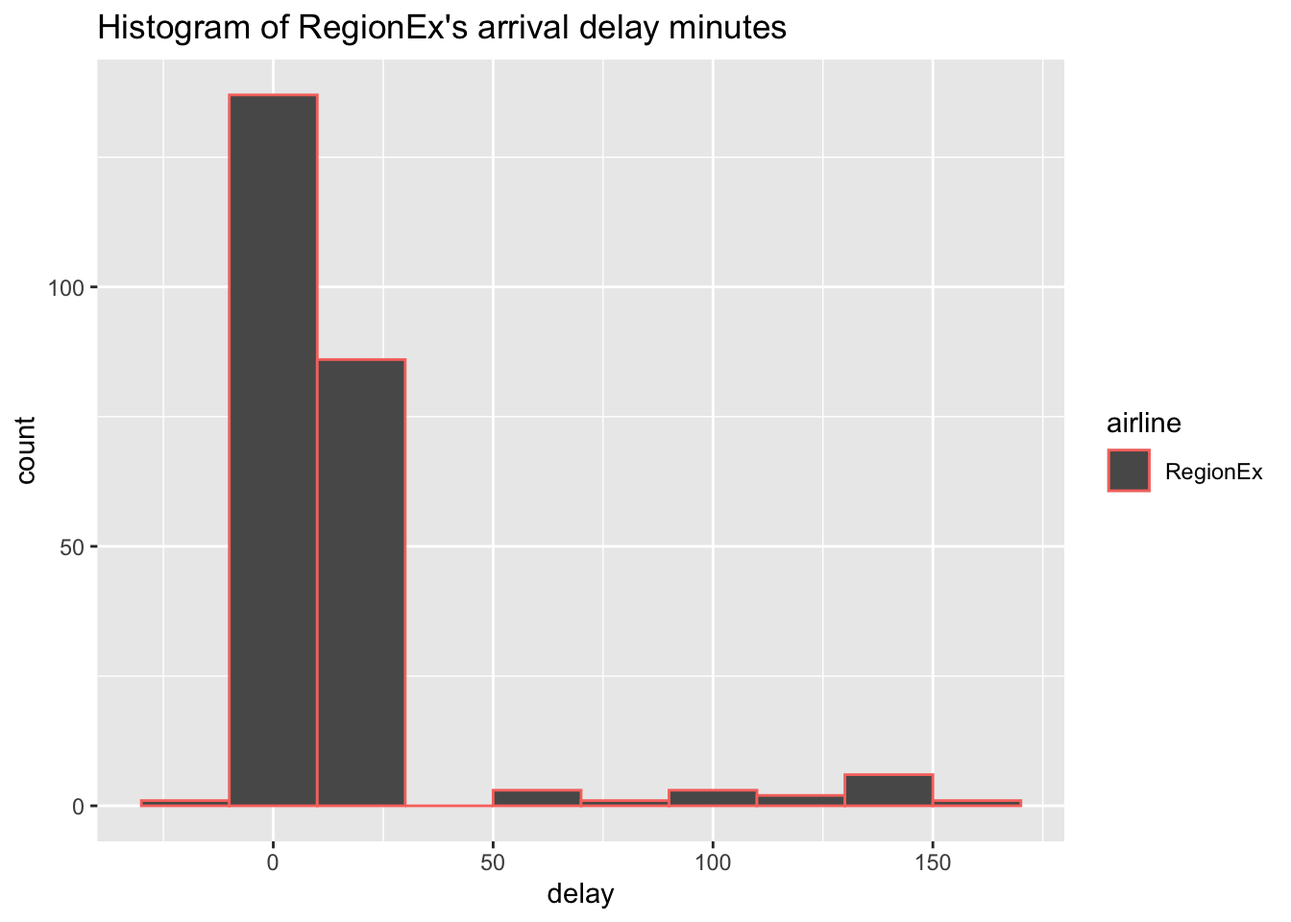
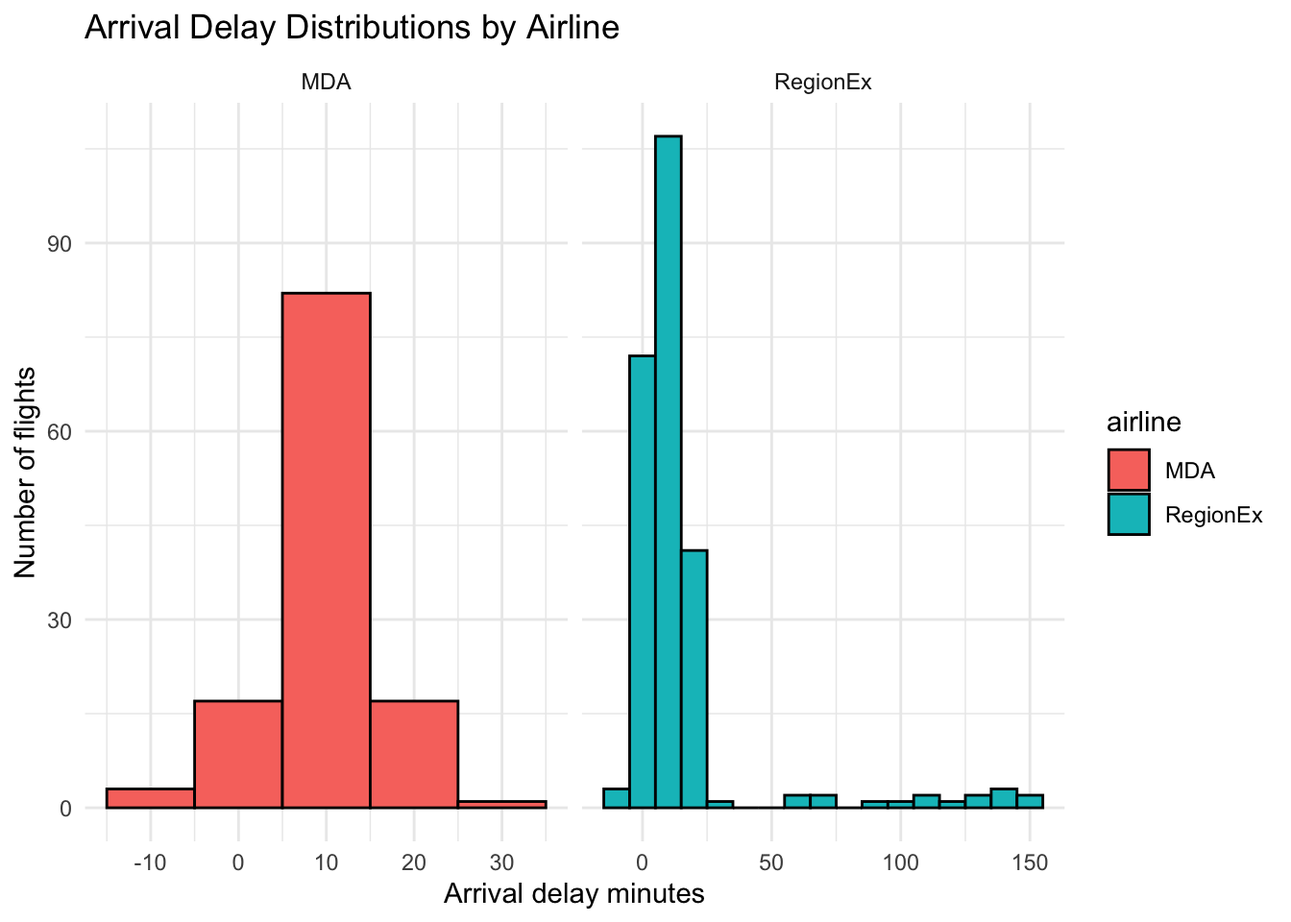
finished flight_delay_case

diff --git a/IS_6489_Stats/week1/flight_delay_template.html b/IS_6489_Stats/week1/flight_delay_template.html
@@ -103,7 +103,11 @@ pre > code.sourceCode > span > a:first-child::before { text-decoration: underlin
   <li><a href="#q3" id="toc-q3" class="nav-link" data-scroll-target="#q3">Q3</a></li>
   <li><a href="#create-a-summary-table-of-percent-delayed-by-airline." id="toc-create-a-summary-table-of-percent-delayed-by-airline." class="nav-link" data-scroll-target="#create-a-summary-table-of-percent-delayed-by-airline.">Create a summary table of percent delayed by airline.</a>
   <ul class="collapse">
-  <li><a href="#q4" id="toc-q4" class="nav-link" data-scroll-target="#q4">Q4</a></li>
+  <li><a href="#notice-that-these-tablespercent-delayed-by-airline-vs.-percent-delayed-by-airline-and-route-contain-conflicting-information.-how-should-you-answer-the-question-of-whether-regionex-has-a-higher-percentage-of-delayed-flights-is-the-the-coo-correct-and-if-not-why-not" id="toc-notice-that-these-tablespercent-delayed-by-airline-vs.-percent-delayed-by-airline-and-route-contain-conflicting-information.-how-should-you-answer-the-question-of-whether-regionex-has-a-higher-percentage-of-delayed-flights-is-the-the-coo-correct-and-if-not-why-not" class="nav-link" data-scroll-target="#notice-that-these-tablespercent-delayed-by-airline-vs.-percent-delayed-by-airline-and-route-contain-conflicting-information.-how-should-you-answer-the-question-of-whether-regionex-has-a-higher-percentage-of-delayed-flights-is-the-the-coo-correct-and-if-not-why-not">Notice that these tables—percent delayed by airline vs.&nbsp;percent delayed by airline and route— contain conflicting information. How should you answer the question of whether RegionEx has a higher percentage of delayed flights? Is the the COO correct? And, if not, why not?</a></li>
+  <li><a href="#q4" id="toc-q4" class="nav-link" data-scroll-target="#q4">Q4</a>
+  <ul class="collapse">
+  <li><a href="#compare-the-scheduled-flight-durations-for-the-two-airlines-on-each-of-their-four-routes.-also-compare-the-actual-flight-durations-for-the-two-airlines.-what-do-you-notice-if-the-two-airlines-had-the-same-scheduled-duration-what-impact-would-this-have-on-their-delay-records" id="toc-compare-the-scheduled-flight-durations-for-the-two-airlines-on-each-of-their-four-routes.-also-compare-the-actual-flight-durations-for-the-two-airlines.-what-do-you-notice-if-the-two-airlines-had-the-same-scheduled-duration-what-impact-would-this-have-on-their-delay-records" class="nav-link" data-scroll-target="#compare-the-scheduled-flight-durations-for-the-two-airlines-on-each-of-their-four-routes.-also-compare-the-actual-flight-durations-for-the-two-airlines.-what-do-you-notice-if-the-two-airlines-had-the-same-scheduled-duration-what-impact-would-this-have-on-their-delay-records">Compare the scheduled flight durations for the two airlines on each of their four routes. Also compare the actual flight durations for the two airlines. What do you notice? If the two airlines had the same scheduled duration, what impact would this have on their delay records?</a></li>
+  </ul></li>
   <li><a href="#q5" id="toc-q5" class="nav-link" data-scroll-target="#q5">Q5</a></li>
   </ul></li>
   </ul>
@@ -198,10 +202,20 @@ pre > code.sourceCode > span > a:first-child::before { text-decoration: underlin
 <h3 class="anchored" data-anchor-id="inspect-the-distribution-of-regionexs-arrival-delays-by-constructing-a-histogram-of-the-number-of-arrival-delay-minutes-of-regionexs-flights.-do-the-same-for-mdas-flights.-hint-use-facet_wrap.">Inspect the distribution of RegionEx’s arrival delays by constructing a histogram of the number of arrival delay minutes of RegionEx’s flights. Do the same for MDA’s flights. Hint: use facet_wrap().</h3>
 <div class="cell">
 <div class="code-copy-outer-scaffold"><div class="sourceCode cell-code" id="cb6"><pre class="sourceCode r code-with-copy"><code class="sourceCode r"><span id="cb6-1"><a href="#cb6-1" aria-hidden="true" tabindex="-1"></a>flightdf <span class="sc">%&gt;%</span></span>
-<span id="cb6-2"><a href="#cb6-2" aria-hidden="true" tabindex="-1"></a>  <span class="fu">filter</span>(airline <span class="sc">==</span> <span class="st">"RegionEx"</span>) <span class="sc">%&gt;%</span></span>
-<span id="cb6-3"><a href="#cb6-3" aria-hidden="true" tabindex="-1"></a>  <span class="fu">ggplot</span>() <span class="sc">+</span></span>
-<span id="cb6-4"><a href="#cb6-4" aria-hidden="true" tabindex="-1"></a>  <span class="fu">geom_histogram</span>(<span class="fu">aes</span>(<span class="at">x =</span> delay, <span class="at">color =</span> airline), <span class="at">binwidth =</span> <span class="dv">20</span>) <span class="sc">+</span></span>
-<span id="cb6-5"><a href="#cb6-5" aria-hidden="true" tabindex="-1"></a>  <span class="fu">ggtitle</span>(<span class="st">"Histogram of RegionEx's arrival delay minutes"</span>)</span></code></pre></div><button title="Copy to Clipboard" class="code-copy-button"><i class="bi"></i></button></div>
+<span id="cb6-2"><a href="#cb6-2" aria-hidden="true" tabindex="-1"></a>  <span class="fu">filter</span>(airline <span class="sc">%in%</span> <span class="fu">c</span>(<span class="st">"RegionEx"</span>, <span class="st">"MDA"</span>)) <span class="sc">%&gt;%</span></span>
+<span id="cb6-3"><a href="#cb6-3" aria-hidden="true" tabindex="-1"></a>  <span class="fu">ggplot</span>(<span class="fu">aes</span>(<span class="at">x =</span> delay)) <span class="sc">+</span></span>
+<span id="cb6-4"><a href="#cb6-4" aria-hidden="true" tabindex="-1"></a>  <span class="fu">geom_histogram</span>(</span>
+<span id="cb6-5"><a href="#cb6-5" aria-hidden="true" tabindex="-1"></a>    <span class="fu">aes</span>(<span class="at">fill =</span> airline),</span>
+<span id="cb6-6"><a href="#cb6-6" aria-hidden="true" tabindex="-1"></a>    <span class="at">binwidth =</span> <span class="dv">10</span>,</span>
+<span id="cb6-7"><a href="#cb6-7" aria-hidden="true" tabindex="-1"></a>    <span class="at">color =</span> <span class="st">"black"</span></span>
+<span id="cb6-8"><a href="#cb6-8" aria-hidden="true" tabindex="-1"></a>  ) <span class="sc">+</span></span>
+<span id="cb6-9"><a href="#cb6-9" aria-hidden="true" tabindex="-1"></a>  <span class="fu">facet_wrap</span>(<span class="sc">~</span>airline, <span class="at">scales =</span> <span class="st">"free_x"</span>) <span class="sc">+</span></span>
+<span id="cb6-10"><a href="#cb6-10" aria-hidden="true" tabindex="-1"></a>  <span class="fu">labs</span>(</span>
+<span id="cb6-11"><a href="#cb6-11" aria-hidden="true" tabindex="-1"></a>    <span class="at">title =</span> <span class="st">"Arrival Delay Distributions by Airline"</span>,</span>
+<span id="cb6-12"><a href="#cb6-12" aria-hidden="true" tabindex="-1"></a>    <span class="at">x =</span> <span class="st">"Arrival delay minutes"</span>,</span>
+<span id="cb6-13"><a href="#cb6-13" aria-hidden="true" tabindex="-1"></a>    <span class="at">y =</span> <span class="st">"Number of flights"</span></span>
+<span id="cb6-14"><a href="#cb6-14" aria-hidden="true" tabindex="-1"></a>  ) <span class="sc">+</span></span>
+<span id="cb6-15"><a href="#cb6-15" aria-hidden="true" tabindex="-1"></a>  <span class="fu">theme_minimal</span>()</span></code></pre></div><button title="Copy to Clipboard" class="code-copy-button"><i class="bi"></i></button></div>
 <div class="cell-output-display">
 <div>
 <figure class="figure">
@@ -209,22 +223,11 @@ pre > code.sourceCode > span > a:first-child::before { text-decoration: underlin
 </figure>
 </div>
 </div>
-<div class="code-copy-outer-scaffold"><div class="sourceCode cell-code" id="cb7"><pre class="sourceCode r code-with-copy"><code class="sourceCode r"><span id="cb7-1"><a href="#cb7-1" aria-hidden="true" tabindex="-1"></a>flightdf <span class="sc">%&gt;%</span></span>
-<span id="cb7-2"><a href="#cb7-2" aria-hidden="true" tabindex="-1"></a>  <span class="fu">filter</span>(airline <span class="sc">==</span> <span class="st">"MDA"</span>) <span class="sc">%&gt;%</span></span>
-<span id="cb7-3"><a href="#cb7-3" aria-hidden="true" tabindex="-1"></a>  <span class="fu">ggplot</span>() <span class="sc">+</span></span>
-<span id="cb7-4"><a href="#cb7-4" aria-hidden="true" tabindex="-1"></a>  <span class="fu">geom_histogram</span>(<span class="fu">aes</span>(<span class="at">x =</span> delay, <span class="at">color =</span> airline), <span class="at">binwidth =</span> <span class="dv">20</span>) <span class="sc">+</span></span>
-<span id="cb7-5"><a href="#cb7-5" aria-hidden="true" tabindex="-1"></a>  <span class="fu">ggtitle</span>(<span class="st">"Histogram of MDA's arrival delay minutes"</span>)</span></code></pre></div><button title="Copy to Clipboard" class="code-copy-button"><i class="bi"></i></button></div>
-<div class="cell-output-display">
-<div>
-<figure class="figure">
-<p><img src="flight_delay_template_files/figure-html/unnamed-chunk-1-2.png" class="img-fluid figure-img" width="672"></p>
-</figure>
-</div>
-</div>
 </div>
 </section>
 <section id="how-do-these-two-distributions-compare" class="level3">
 <h3 class="anchored" data-anchor-id="how-do-these-two-distributions-compare">How do these two distributions compare?</h3>
+<p>From the graphs when combining them and using a bin of 10 it looks that RegionEx is very heavily skewed right and that MDA is a normal distribution. It verifies that RegionEx has a few very high delays exceeding 130 minutes where as MDA doesn’t have any delays longer than 20 minutes.</p>
 </section>
 </section>
 <section id="q3" class="level2">
@@ -234,20 +237,149 @@ pre > code.sourceCode > span > a:first-child::before { text-decoration: underlin
 </section>
 <section id="create-a-summary-table-of-percent-delayed-by-airline." class="level1">
 <h1>Create a summary table of percent delayed by airline.</h1>
-<!-- d %>% 
-  group_by(airline) %>% 
-  summarize(n = n(),
-            percent_delay = (mean(delay_indicator) * 100) %>% round(1))  -->
+<div class="cell">
+<div class="code-copy-outer-scaffold"><div class="sourceCode cell-code" id="cb7"><pre class="sourceCode r code-with-copy"><code class="sourceCode r"><span id="cb7-1"><a href="#cb7-1" aria-hidden="true" tabindex="-1"></a>flightdf <span class="sc">%&gt;%</span></span>
+<span id="cb7-2"><a href="#cb7-2" aria-hidden="true" tabindex="-1"></a>  <span class="fu">group_by</span>(airline) <span class="sc">%&gt;%</span></span>
+<span id="cb7-3"><a href="#cb7-3" aria-hidden="true" tabindex="-1"></a>  <span class="fu">summarize</span>(<span class="at">n =</span> <span class="fu">n</span>(), <span class="at">percent_delay =</span> (<span class="fu">mean</span>(delay_indicator) <span class="sc">*</span> <span class="dv">100</span>) <span class="sc">%&gt;%</span> <span class="fu">round</span>(<span class="dv">2</span>))</span></code></pre></div><button title="Copy to Clipboard" class="code-copy-button"><i class="bi"></i></button></div>
+<div class="cell-output cell-output-stdout">
+<pre><code># A tibble: 2 × 3
+  airline      n percent_delay
+  &lt;chr&gt;    &lt;int&gt;         &lt;dbl&gt;
+1 MDA        120         25.83
+2 RegionEx   240         26.25</code></pre>
+</div>
+</div>
 <p>Note that because delay_indicator is numeric (a binary 0/1 variable) calculating the mean of the vector returns the proportion of 1s, which, multiplied by 100, is equivalent to the percentage of delayed flights.</p>
 <p>Write your own code to create a table summarizing the percentage of delayed flights by airline and route.</p>
-<p>Notice that these tables—percent delayed by airline vs.&nbsp;percent delayed by airline and route— contain conflicting information. How should you answer the question of whether RegionEx has a higher percentage of delayed flights? Is the the COO correct? And, if not, why not?</p>
+<div class="cell">
+<div class="code-copy-outer-scaffold"><div class="sourceCode cell-code" id="cb9"><pre class="sourceCode r code-with-copy"><code class="sourceCode r"><span id="cb9-1"><a href="#cb9-1" aria-hidden="true" tabindex="-1"></a>flightdf <span class="sc">%&gt;%</span></span>
+<span id="cb9-2"><a href="#cb9-2" aria-hidden="true" tabindex="-1"></a>  <span class="fu">group_by</span>(airline, route_code) <span class="sc">%&gt;%</span></span>
+<span id="cb9-3"><a href="#cb9-3" aria-hidden="true" tabindex="-1"></a>  <span class="fu">summarise</span>(</span>
+<span id="cb9-4"><a href="#cb9-4" aria-hidden="true" tabindex="-1"></a>    <span class="at">n =</span> <span class="fu">n</span>(),</span>
+<span id="cb9-5"><a href="#cb9-5" aria-hidden="true" tabindex="-1"></a>    <span class="at">percent_delay =</span> <span class="fu">round</span>(<span class="fu">mean</span>(delay_indicator, <span class="at">na.rm =</span> <span class="cn">TRUE</span>) <span class="sc">*</span> <span class="dv">100</span>, <span class="dv">2</span>),</span>
+<span id="cb9-6"><a href="#cb9-6" aria-hidden="true" tabindex="-1"></a>    <span class="at">.groups =</span> <span class="st">"drop"</span></span>
+<span id="cb9-7"><a href="#cb9-7" aria-hidden="true" tabindex="-1"></a>  ) <span class="sc">%&gt;%</span></span>
+<span id="cb9-8"><a href="#cb9-8" aria-hidden="true" tabindex="-1"></a>  <span class="fu">arrange</span>(route_code, airline)</span></code></pre></div><button title="Copy to Clipboard" class="code-copy-button"><i class="bi"></i></button></div>
+<div class="cell-output cell-output-stdout">
+<pre><code># A tibble: 8 × 4
+  airline  route_code     n percent_delay
+  &lt;chr&gt;    &lt;chr&gt;      &lt;int&gt;         &lt;dbl&gt;
+1 MDA      DFW/MSY       30         26.67
+2 RegionEx DFW/MSY       90         25.56
+3 MDA      MSY/DFW       30         30   
+4 RegionEx MSY/DFW       90         28.89
+5 MDA      MSY/PNS       30         20   
+6 RegionEx MSY/PNS       30         20   
+7 MDA      PNS/MSY       30         26.67
+8 RegionEx PNS/MSY       30         26.67</code></pre>
+</div>
+</div>
+<section id="notice-that-these-tablespercent-delayed-by-airline-vs.-percent-delayed-by-airline-and-route-contain-conflicting-information.-how-should-you-answer-the-question-of-whether-regionex-has-a-higher-percentage-of-delayed-flights-is-the-the-coo-correct-and-if-not-why-not" class="level3">
+<h3 class="anchored" data-anchor-id="notice-that-these-tablespercent-delayed-by-airline-vs.-percent-delayed-by-airline-and-route-contain-conflicting-information.-how-should-you-answer-the-question-of-whether-regionex-has-a-higher-percentage-of-delayed-flights-is-the-the-coo-correct-and-if-not-why-not">Notice that these tables—percent delayed by airline vs.&nbsp;percent delayed by airline and route— contain conflicting information. How should you answer the question of whether RegionEx has a higher percentage of delayed flights? Is the the COO correct? And, if not, why not?</h3>
+<p>After accounting for route, RegionEx has a lower percentage of delayed flights than MDA on every comparable route. Therefore, although RegionEx may have a higher overall delay percentage, that aggregate result is likely driven by the airlines’ different route distributions. The COO’s claim is misleading because a fair comparison should control for route.</p>
+</section>
 <section id="q4" class="level2">
 <h2 class="anchored" data-anchor-id="q4">Q4</h2>
-<p>Compare the scheduled flight durations for the two airlines on each of their four routes. Also compare the actual flight durations for the two airlines. What do you notice? If the two airlines had the same scheduled duration, what impact would this have on their delay records?</p>
+<section id="compare-the-scheduled-flight-durations-for-the-two-airlines-on-each-of-their-four-routes.-also-compare-the-actual-flight-durations-for-the-two-airlines.-what-do-you-notice-if-the-two-airlines-had-the-same-scheduled-duration-what-impact-would-this-have-on-their-delay-records" class="level3">
+<h3 class="anchored" data-anchor-id="compare-the-scheduled-flight-durations-for-the-two-airlines-on-each-of-their-four-routes.-also-compare-the-actual-flight-durations-for-the-two-airlines.-what-do-you-notice-if-the-two-airlines-had-the-same-scheduled-duration-what-impact-would-this-have-on-their-delay-records">Compare the scheduled flight durations for the two airlines on each of their four routes. Also compare the actual flight durations for the two airlines. What do you notice? If the two airlines had the same scheduled duration, what impact would this have on their delay records?</h3>
+<div class="cell">
+<div class="code-copy-outer-scaffold"><div class="sourceCode cell-code" id="cb11"><pre class="sourceCode r code-with-copy"><code class="sourceCode r"><span id="cb11-1"><a href="#cb11-1" aria-hidden="true" tabindex="-1"></a>flightdf <span class="sc">%&gt;%</span></span>
+<span id="cb11-2"><a href="#cb11-2" aria-hidden="true" tabindex="-1"></a>  <span class="fu">group_by</span>(route_code, airline) <span class="sc">%&gt;%</span></span>
+<span id="cb11-3"><a href="#cb11-3" aria-hidden="true" tabindex="-1"></a>  <span class="fu">summarise</span>(</span>
+<span id="cb11-4"><a href="#cb11-4" aria-hidden="true" tabindex="-1"></a>    <span class="at">scheduled_minutes =</span> <span class="fu">first</span>(scheduled_flight_length),</span>
+<span id="cb11-5"><a href="#cb11-5" aria-hidden="true" tabindex="-1"></a>    <span class="at">mean_actual_minutes =</span> <span class="fu">mean</span>(actual_flight_length, <span class="at">na.rm =</span> <span class="cn">TRUE</span>),</span>
+<span id="cb11-6"><a href="#cb11-6" aria-hidden="true" tabindex="-1"></a>    <span class="at">mean_over_schedule =</span> <span class="fu">mean</span>(</span>
+<span id="cb11-7"><a href="#cb11-7" aria-hidden="true" tabindex="-1"></a>      actual_flight_length <span class="sc">-</span> scheduled_flight_length,</span>
+<span id="cb11-8"><a href="#cb11-8" aria-hidden="true" tabindex="-1"></a>      <span class="at">na.rm =</span> <span class="cn">TRUE</span></span>
+<span id="cb11-9"><a href="#cb11-9" aria-hidden="true" tabindex="-1"></a>    ),</span>
+<span id="cb11-10"><a href="#cb11-10" aria-hidden="true" tabindex="-1"></a>    <span class="at">.groups =</span> <span class="st">"drop"</span></span>
+<span id="cb11-11"><a href="#cb11-11" aria-hidden="true" tabindex="-1"></a>  ) <span class="sc">%&gt;%</span></span>
+<span id="cb11-12"><a href="#cb11-12" aria-hidden="true" tabindex="-1"></a>  <span class="fu">arrange</span>(route_code, airline)</span></code></pre></div><button title="Copy to Clipboard" class="code-copy-button"><i class="bi"></i></button></div>
+<div class="cell-output cell-output-stdout">
+<pre><code># A tibble: 8 × 5
+  route_code airline  scheduled_minutes mean_actual_minutes mean_over_schedule
+  &lt;chr&gt;      &lt;chr&gt;                &lt;int&gt;               &lt;dbl&gt;              &lt;dbl&gt;
+1 DFW/MSY    MDA                    100             113.47             13.467 
+2 DFW/MSY    RegionEx                90             106.42             16.422 
+3 MSY/DFW    MDA                    100             113.5              13.5   
+4 MSY/DFW    RegionEx                90             108.21             18.211 
+5 MSY/PNS    MDA                     75              85.2              10.2   
+6 MSY/PNS    RegionEx                70              81                11     
+7 PNS/MSY    MDA                     75              81.433             6.4333
+8 PNS/MSY    RegionEx                70              80.4              10.4   </code></pre>
+</div>
+</div>
+<p>RegionEx has shorter scheduled flight durations than MDA on each route. Because RegionEx allows less time in its schedule, the same actual flight duration or operational delay may result in a larger arrival delay relative to its schedule. If both airlines used the same scheduled durations, some of RegionEx’s recorded delays might be reduced or eliminated, making the airlines’ delay records more comparable.</p>
+</section>
 </section>
 <section id="q5" class="level2">
 <h2 class="anchored" data-anchor-id="q5">Q5</h2>
 <p>Does the data support the claim that the on‐time performance of RegionEx is worse than that of MDA? Write a paragraph in which you argue a position. In your answer, please incorporate quantitative evidence from the earlier questions.</p>
+<div class="cell">
+<div class="code-copy-outer-scaffold"><div class="sourceCode cell-code" id="cb13"><pre class="sourceCode r code-with-copy"><code class="sourceCode r"><span id="cb13-1"><a href="#cb13-1" aria-hidden="true" tabindex="-1"></a>mda_schedule <span class="ot">&lt;-</span> flightdf <span class="sc">%&gt;%</span></span>
+<span id="cb13-2"><a href="#cb13-2" aria-hidden="true" tabindex="-1"></a>  <span class="fu">filter</span>(airline <span class="sc">==</span> <span class="st">"MDA"</span>) <span class="sc">%&gt;%</span></span>
+<span id="cb13-3"><a href="#cb13-3" aria-hidden="true" tabindex="-1"></a>  <span class="fu">group_by</span>(route_code) <span class="sc">%&gt;%</span></span>
+<span id="cb13-4"><a href="#cb13-4" aria-hidden="true" tabindex="-1"></a>  <span class="fu">summarise</span>(</span>
+<span id="cb13-5"><a href="#cb13-5" aria-hidden="true" tabindex="-1"></a>    <span class="at">mda_scheduled_minutes =</span> <span class="fu">first</span>(scheduled_flight_length),</span>
+<span id="cb13-6"><a href="#cb13-6" aria-hidden="true" tabindex="-1"></a>    <span class="at">.groups =</span> <span class="st">"drop"</span></span>
+<span id="cb13-7"><a href="#cb13-7" aria-hidden="true" tabindex="-1"></a>  )</span>
+<span id="cb13-8"><a href="#cb13-8" aria-hidden="true" tabindex="-1"></a></span>
+<span id="cb13-9"><a href="#cb13-9" aria-hidden="true" tabindex="-1"></a>flightdf <span class="sc">%&gt;%</span></span>
+<span id="cb13-10"><a href="#cb13-10" aria-hidden="true" tabindex="-1"></a>  <span class="fu">left_join</span>(mda_schedule, <span class="at">by =</span> <span class="st">"route_code"</span>) <span class="sc">%&gt;%</span></span>
+<span id="cb13-11"><a href="#cb13-11" aria-hidden="true" tabindex="-1"></a>  <span class="fu">filter</span>(</span>
+<span id="cb13-12"><a href="#cb13-12" aria-hidden="true" tabindex="-1"></a>    airline <span class="sc">==</span> <span class="st">"MDA"</span> <span class="sc">|</span></span>
+<span id="cb13-13"><a href="#cb13-13" aria-hidden="true" tabindex="-1"></a>      (airline <span class="sc">==</span> <span class="st">"RegionEx"</span> <span class="sc">&amp;</span></span>
+<span id="cb13-14"><a href="#cb13-14" aria-hidden="true" tabindex="-1"></a>        actual_flight_length <span class="sc">&gt;=</span> mda_scheduled_minutes)</span>
+<span id="cb13-15"><a href="#cb13-15" aria-hidden="true" tabindex="-1"></a>  ) <span class="sc">%&gt;%</span></span>
+<span id="cb13-16"><a href="#cb13-16" aria-hidden="true" tabindex="-1"></a>  <span class="fu">group_by</span>(airline) <span class="sc">%&gt;%</span></span>
+<span id="cb13-17"><a href="#cb13-17" aria-hidden="true" tabindex="-1"></a>  <span class="fu">summarise</span>(</span>
+<span id="cb13-18"><a href="#cb13-18" aria-hidden="true" tabindex="-1"></a>    <span class="at">mean_over_scheduled =</span> <span class="fu">round</span>(</span>
+<span id="cb13-19"><a href="#cb13-19" aria-hidden="true" tabindex="-1"></a>      <span class="fu">mean</span>(actual_flight_length <span class="sc">-</span> scheduled_flight_length, <span class="at">na.rm =</span> <span class="cn">TRUE</span>),</span>
+<span id="cb13-20"><a href="#cb13-20" aria-hidden="true" tabindex="-1"></a>      <span class="dv">2</span></span>
+<span id="cb13-21"><a href="#cb13-21" aria-hidden="true" tabindex="-1"></a>    ),</span>
+<span id="cb13-22"><a href="#cb13-22" aria-hidden="true" tabindex="-1"></a>    <span class="at">n =</span> <span class="fu">n</span>(),</span>
+<span id="cb13-23"><a href="#cb13-23" aria-hidden="true" tabindex="-1"></a>    <span class="at">.groups =</span> <span class="st">"drop"</span></span>
+<span id="cb13-24"><a href="#cb13-24" aria-hidden="true" tabindex="-1"></a>  )</span></code></pre></div><button title="Copy to Clipboard" class="code-copy-button"><i class="bi"></i></button></div>
+<div class="cell-output cell-output-stdout">
+<pre><code># A tibble: 2 × 3
+  airline  mean_over_scheduled     n
+  &lt;chr&gt;                  &lt;dbl&gt; &lt;int&gt;
+1 MDA                    10.9    120
+2 RegionEx               25.64   132</code></pre>
+</div>
+<div class="code-copy-outer-scaffold"><div class="sourceCode cell-code" id="cb15"><pre class="sourceCode r code-with-copy"><code class="sourceCode r"><span id="cb15-1"><a href="#cb15-1" aria-hidden="true" tabindex="-1"></a>regionex_schedule <span class="ot">&lt;-</span> flightdf <span class="sc">%&gt;%</span></span>
+<span id="cb15-2"><a href="#cb15-2" aria-hidden="true" tabindex="-1"></a>  <span class="fu">filter</span>(airline <span class="sc">==</span> <span class="st">"RegionEx"</span>) <span class="sc">%&gt;%</span></span>
+<span id="cb15-3"><a href="#cb15-3" aria-hidden="true" tabindex="-1"></a>  <span class="fu">group_by</span>(route_code) <span class="sc">%&gt;%</span></span>
+<span id="cb15-4"><a href="#cb15-4" aria-hidden="true" tabindex="-1"></a>  <span class="fu">summarise</span>(</span>
+<span id="cb15-5"><a href="#cb15-5" aria-hidden="true" tabindex="-1"></a>    <span class="at">regionex_scheduled_minutes =</span> <span class="fu">first</span>(scheduled_flight_length),</span>
+<span id="cb15-6"><a href="#cb15-6" aria-hidden="true" tabindex="-1"></a>    <span class="at">.groups =</span> <span class="st">"drop"</span></span>
+<span id="cb15-7"><a href="#cb15-7" aria-hidden="true" tabindex="-1"></a>  )</span>
+<span id="cb15-8"><a href="#cb15-8" aria-hidden="true" tabindex="-1"></a></span>
+<span id="cb15-9"><a href="#cb15-9" aria-hidden="true" tabindex="-1"></a>flightdf <span class="sc">%&gt;%</span></span>
+<span id="cb15-10"><a href="#cb15-10" aria-hidden="true" tabindex="-1"></a>  <span class="fu">left_join</span>(regionex_schedule, <span class="at">by =</span> <span class="st">"route_code"</span>) <span class="sc">%&gt;%</span></span>
+<span id="cb15-11"><a href="#cb15-11" aria-hidden="true" tabindex="-1"></a>  <span class="fu">filter</span>(</span>
+<span id="cb15-12"><a href="#cb15-12" aria-hidden="true" tabindex="-1"></a>    airline <span class="sc">==</span> <span class="st">"RegionEx"</span> <span class="sc">|</span></span>
+<span id="cb15-13"><a href="#cb15-13" aria-hidden="true" tabindex="-1"></a>      (airline <span class="sc">==</span> <span class="st">"MDA"</span> <span class="sc">&amp;</span></span>
+<span id="cb15-14"><a href="#cb15-14" aria-hidden="true" tabindex="-1"></a>        actual_flight_length <span class="sc">&gt;=</span> regionex_scheduled_minutes)</span>
+<span id="cb15-15"><a href="#cb15-15" aria-hidden="true" tabindex="-1"></a>  ) <span class="sc">%&gt;%</span></span>
+<span id="cb15-16"><a href="#cb15-16" aria-hidden="true" tabindex="-1"></a>  <span class="fu">group_by</span>(airline) <span class="sc">%&gt;%</span></span>
+<span id="cb15-17"><a href="#cb15-17" aria-hidden="true" tabindex="-1"></a>  <span class="fu">summarise</span>(</span>
+<span id="cb15-18"><a href="#cb15-18" aria-hidden="true" tabindex="-1"></a>    <span class="at">mean_over_regionex_schedule =</span> <span class="fu">round</span>(</span>
+<span id="cb15-19"><a href="#cb15-19" aria-hidden="true" tabindex="-1"></a>      <span class="fu">mean</span>(actual_flight_length <span class="sc">-</span> regionex_scheduled_minutes, <span class="at">na.rm =</span> <span class="cn">TRUE</span>),</span>
+<span id="cb15-20"><a href="#cb15-20" aria-hidden="true" tabindex="-1"></a>      <span class="dv">2</span></span>
+<span id="cb15-21"><a href="#cb15-21" aria-hidden="true" tabindex="-1"></a>    ),</span>
+<span id="cb15-22"><a href="#cb15-22" aria-hidden="true" tabindex="-1"></a>    <span class="at">n =</span> <span class="fu">n</span>(),</span>
+<span id="cb15-23"><a href="#cb15-23" aria-hidden="true" tabindex="-1"></a>    <span class="at">.groups =</span> <span class="st">"drop"</span></span>
+<span id="cb15-24"><a href="#cb15-24" aria-hidden="true" tabindex="-1"></a>  )</span></code></pre></div><button title="Copy to Clipboard" class="code-copy-button"><i class="bi"></i></button></div>
+<div class="cell-output cell-output-stdout">
+<pre><code># A tibble: 2 × 3
+  airline  mean_over_regionex_schedule     n
+  &lt;chr&gt;                          &lt;dbl&gt; &lt;int&gt;
+1 MDA                            18.8    118
+2 RegionEx                       15.66   240</code></pre>
+</div>
+</div>
+<p>The data support the claim that RegionEx has worse on-time performance when performance is measured by the average severity of delays. RegionEx’s overall mean arrival delay is 15.66 minutes, compared with 10.90 minutes for MDA, a difference of 4.76 minutes. RegionEx’s delays are also more heavily right-skewed, with some delays exceeding 130 minutes, while MDA’s delays do not exceed 20 minutes. However, RegionEx has a lower median delay and a lower percentage of delayed flights on each comparable route, suggesting that RegionEx flights are delayed less often but more severely when delays occur. RegionEx also uses shorter scheduled durations, which may contribute to its larger recorded delays. Therefore, RegionEx appears to perform worse in terms of average delay minutes, but not necessarily in terms of how frequently flights are delayed. The filtered schedule comparisons support this conclusion, but they should be interpreted cautiously because they do not include the same flights for both airlines.</p>
 </section>
 </section>
 
